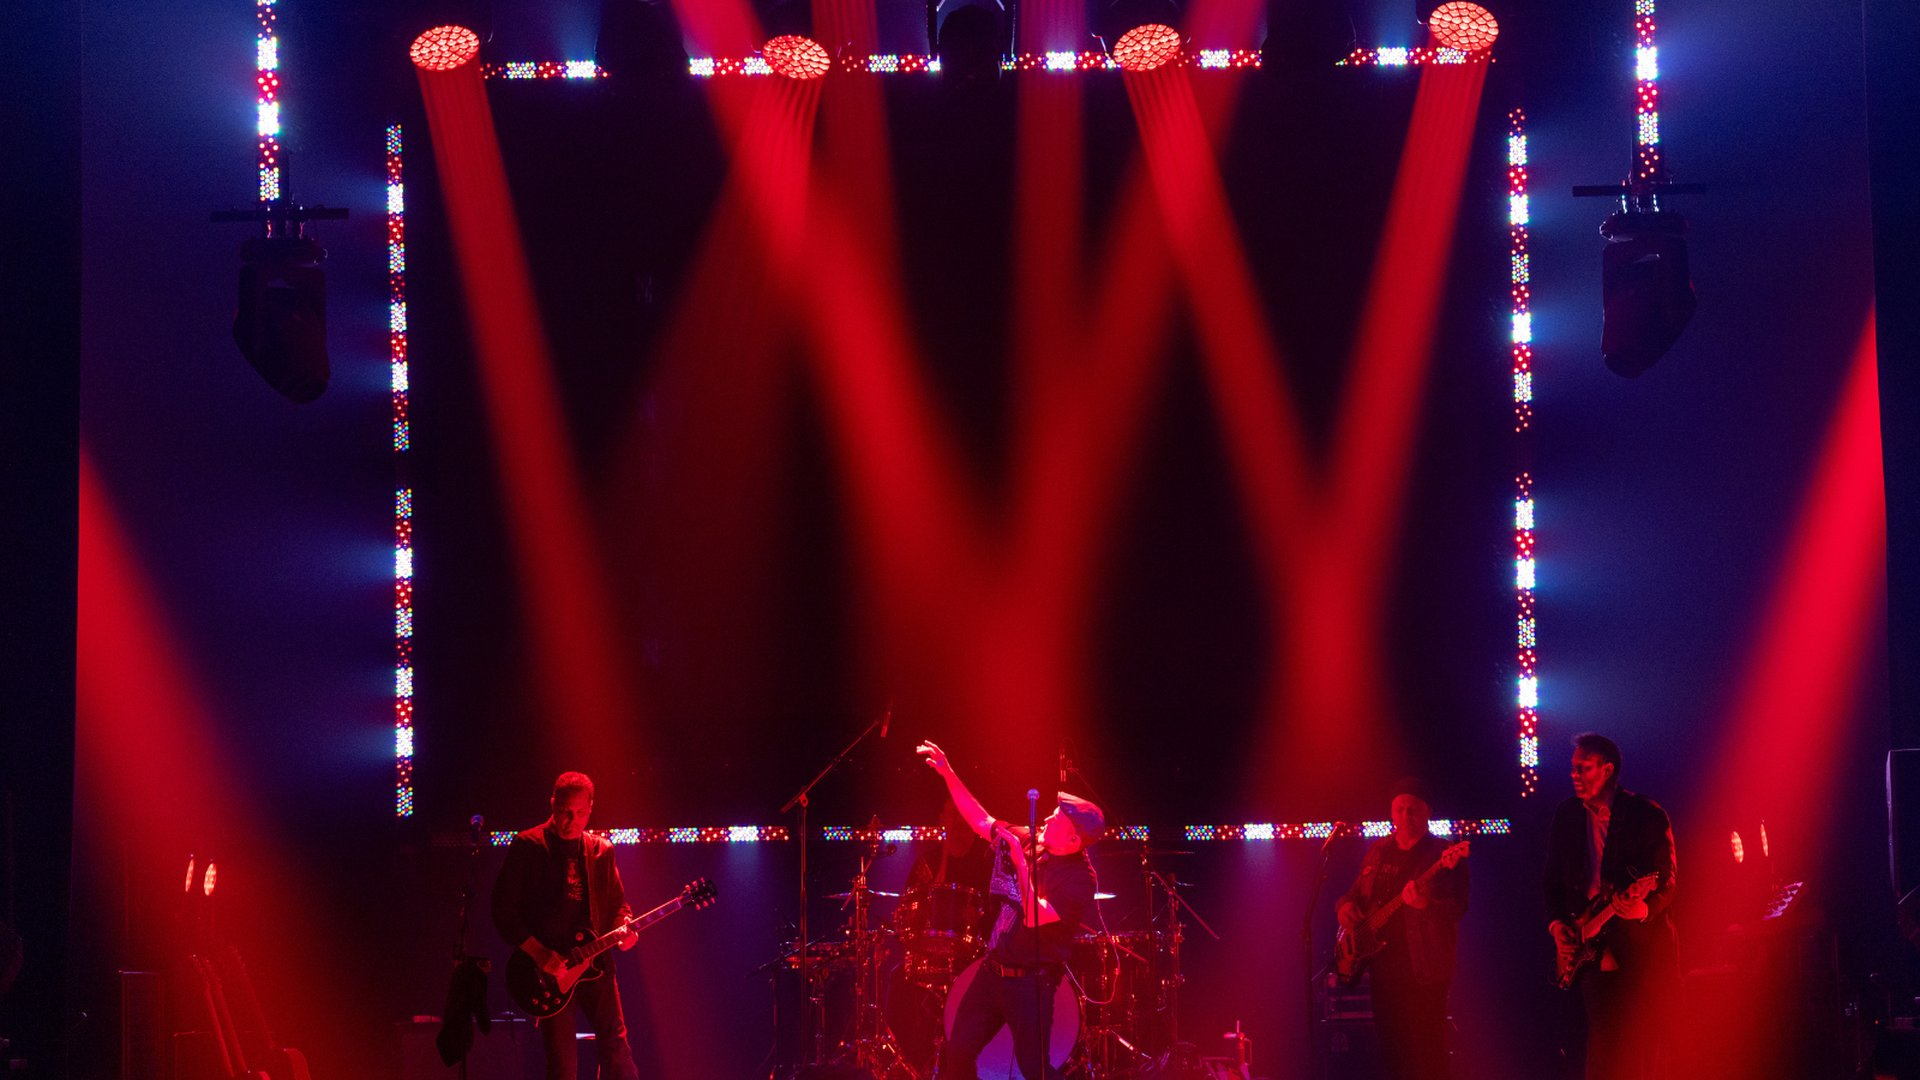
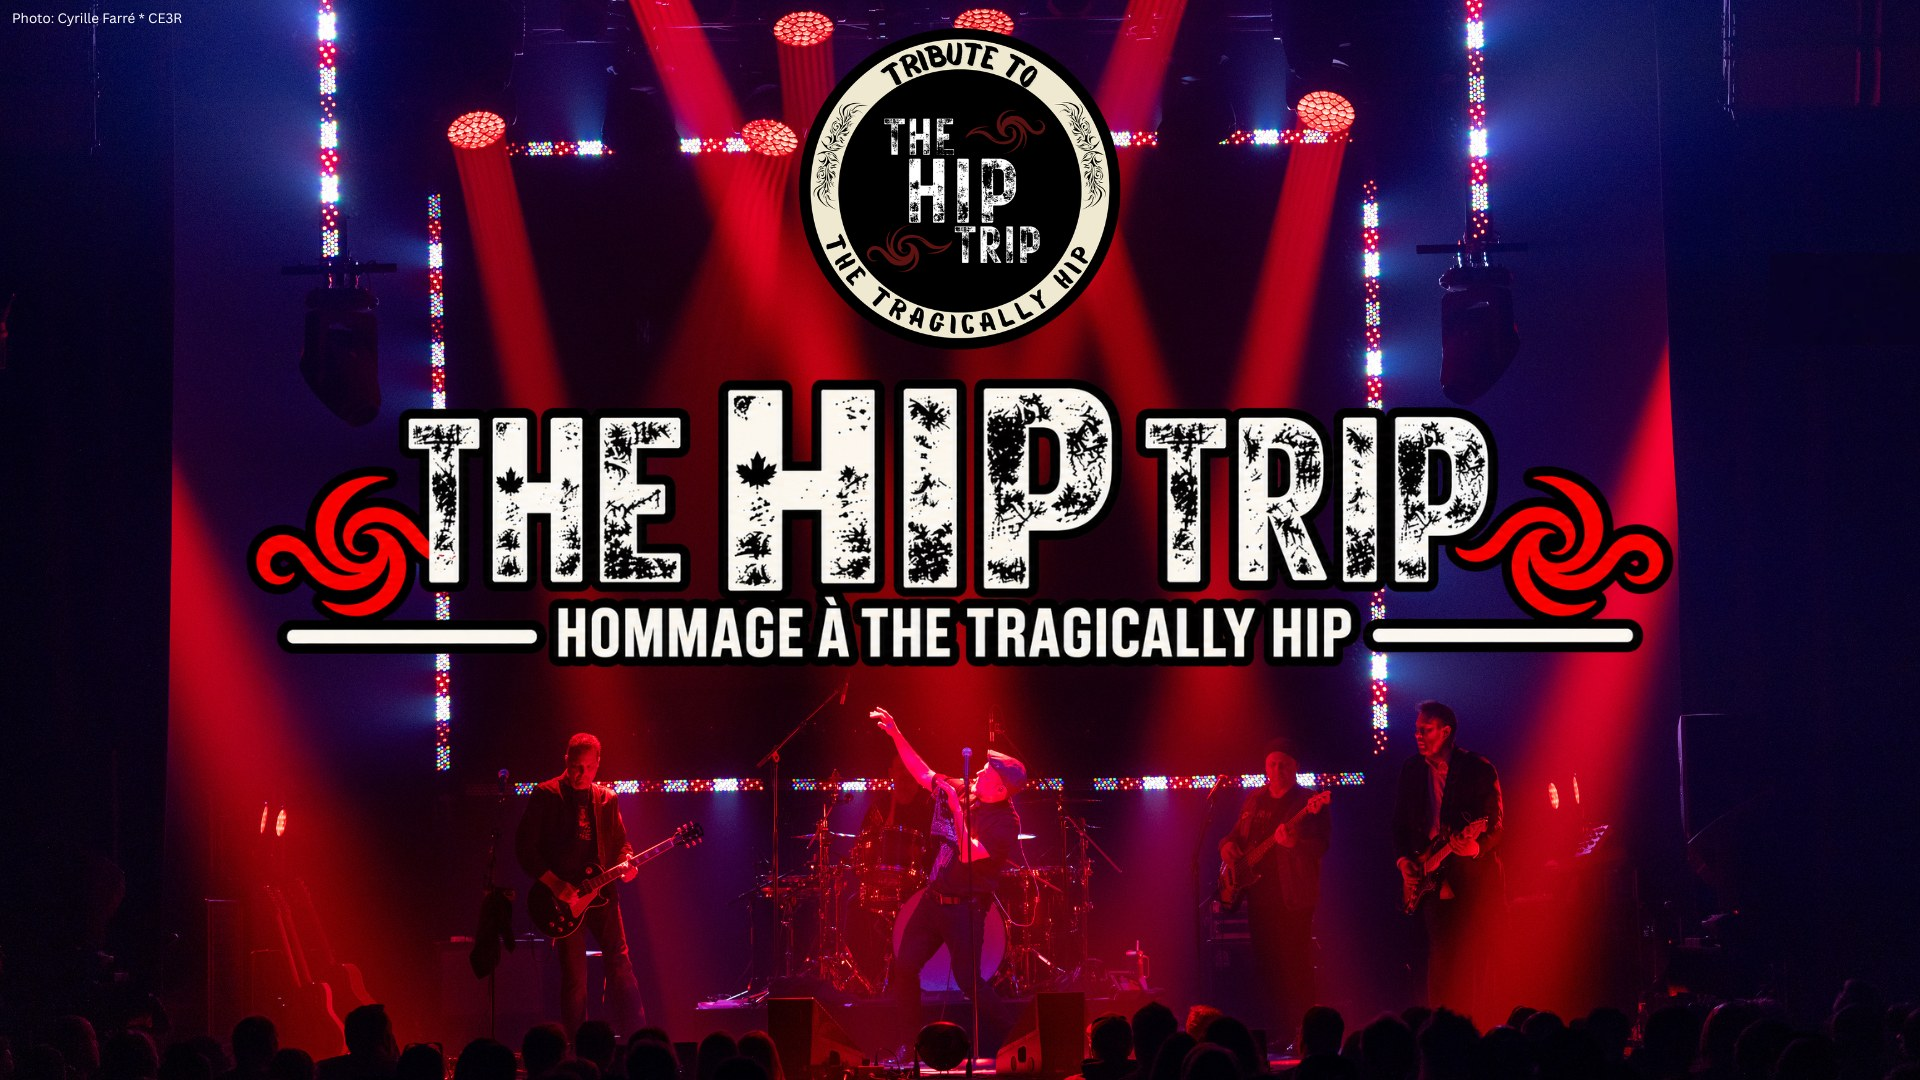
Nouvelle image d'accueil

diff --git a/styles.css b/styles.css
@@ -115,39 +115,21 @@ nav.main-nav a:hover { opacity: 1; color: var(--red-bright); }
 /* ---------- Hero ---------- */
 .hero {
   position: relative;
-  min-height: 100vh;
-  display: flex;
-  align-items: center;
-  justify-content: center;
+  aspect-ratio: 16 / 9;
+  max-height: 92vh;
+  background: url("images/hero.jpg") center 22% / cover no-repeat;
+}
+
+.hero-cta-bar {
+  background: var(--black);
   text-align: center;
-  background: url("images/hero.jpg") center 30% / cover no-repeat;
-  isolation: isolate;
+  padding: 48px 24px 56px;
+  border-bottom: 1px solid rgba(239,230,210,0.08);
 }
-.hero::before {
-  content: "";
-  position: absolute; inset: 0;
-  background: linear-gradient(180deg, rgba(11,11,12,0.55) 0%, rgba(11,11,12,0.35) 40%, rgba(11,11,12,0.92) 100%);
-  z-index: -1;
-}
-.hero-inner { padding: 140px 24px 80px; }
-.hero img.hero-logo {
-  width: 340px;
-  max-width: 68vw;
-  margin: 0 auto 28px;
-  filter: drop-shadow(0 10px 30px rgba(0,0,0,0.6));
-}
-.hero .tagline {
-  font-family: "Anton", sans-serif;
-  font-size: clamp(20px, 3.2vw, 34px);
-  color: var(--cream);
-  text-transform: uppercase;
-  letter-spacing: 0.03em;
-  margin-bottom: 10px;
-}
-.hero .subtagline {
+.hero-cta-bar .subtagline {
   color: var(--text-muted);
   font-size: 20px;
-  margin-bottom: 36px;
+  margin: 0 0 28px;
 }
 .hero-ctas { display: flex; gap: 16px; justify-content: center; flex-wrap: wrap; }
 
@@ -381,4 +363,5 @@ html[lang="en"] span[data-lang="en"] { display: inline !important; }
   .show-date { border-right: none; padding-right: 0; display: flex; gap: 10px; align-items: baseline; text-align: left; }
   .show-actions { text-align: left; }
   .gallery { columns: 2 200px; }
+  .hero { aspect-ratio: 4 / 5; }
 }

diff --git a/index.html b/index.html
@@ -53,21 +53,18 @@
   </div>
 </header>
 
-<section class="hero" id="accueil">
-  <div class="hero-inner">
-    <img src="images/logo.png" alt="The Hip Trip" class="hero-logo" />
-    <p class="tagline" data-lang="fr">Hommage à The Tragically Hip</p>
-    <p class="tagline" data-lang="en">A Tribute to The Tragically Hip</p>
-    <p class="subtagline" data-lang="fr">Cinq gars, une gang de tounes, un show qui frappe fort.</p>
-    <p class="subtagline" data-lang="en">Five guys, a stack of songs, a show that hits hard.</p>
-    <div class="hero-ctas">
-      <a href="#spectacles" class="btn btn-primary" data-lang="fr">Prochains spectacles</a>
-      <a href="#spectacles" class="btn btn-primary" data-lang="en">Upcoming Shows</a>
-      <a href="#videos" class="btn btn-outline" data-lang="fr">Voir les vidéos</a>
-      <a href="#videos" class="btn btn-outline" data-lang="en">Watch Videos</a>
-    </div>
+<section class="hero" id="accueil"></section>
+
+<div class="hero-cta-bar">
+  <p class="subtagline" data-lang="fr">Cinq gars, une gang de tounes, un show qui frappe fort.</p>
+  <p class="subtagline" data-lang="en">Five guys, a stack of songs, a show that hits hard.</p>
+  <div class="hero-ctas">
+    <a href="#spectacles" class="btn btn-primary" data-lang="fr">Prochains spectacles</a>
+    <a href="#spectacles" class="btn btn-primary" data-lang="en">Upcoming Shows</a>
+    <a href="#videos" class="btn btn-outline" data-lang="fr">Voir les vidéos</a>
+    <a href="#videos" class="btn btn-outline" data-lang="en">Watch Videos</a>
   </div>
-</section>
+</div>
 
 <section id="spectacles">
   <div class="container">
